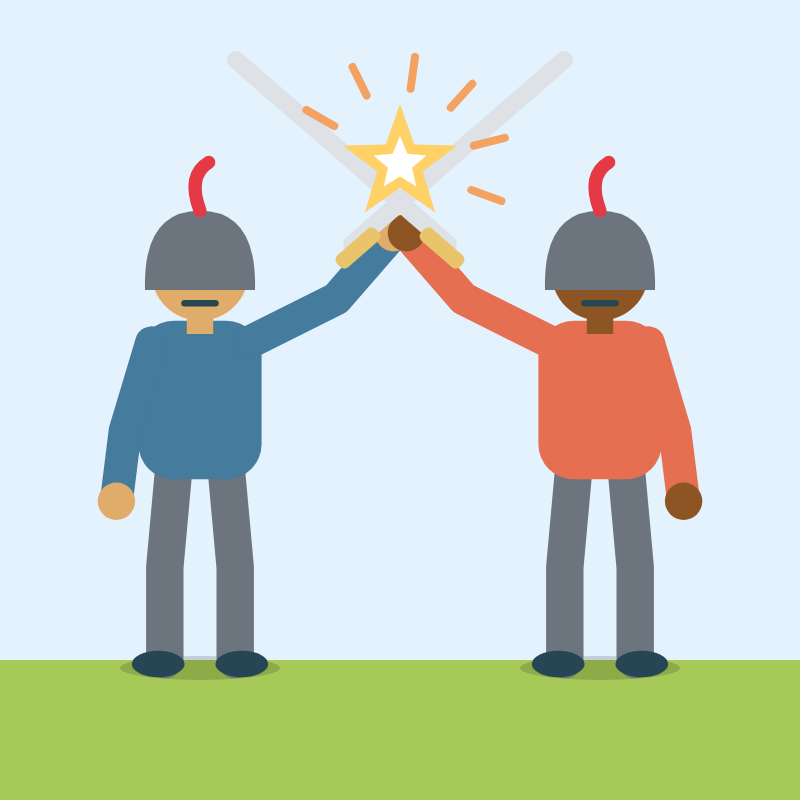
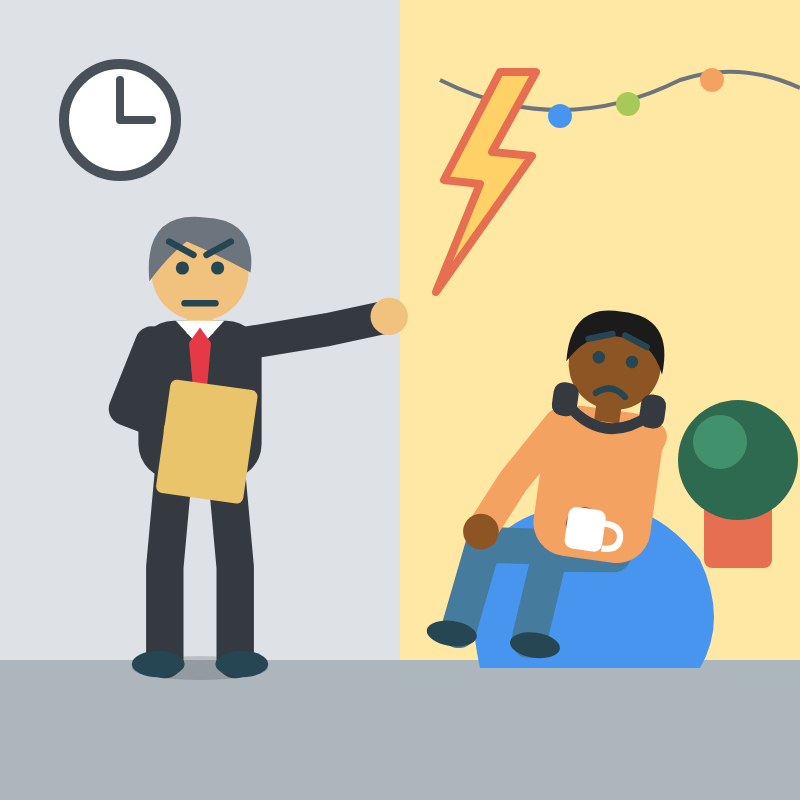
Redraw the pictures for "staged", "improvise" and "clashed with"
- staged: workers holding signs in a protest outside a factory, matching
  the meaning "planned or organized" instead of a theatre stage.
- improvise: a speaker whose notes blow away keeps talking with a new idea.
- clashed with: a strict manager in a suit confronts a relaxed worker on
  a bean bag, with a lightning bolt between them; the two knights read
  like a high-five at small sizes.

Claude-Session: https://claude.ai/code/session_012AFdoXqDmyhe4pDydHQ1Qn

diff --git a/tools/vocab_drawings/batch_03.py b/tools/vocab_drawings/batch_03.py
@@ -6,7 +6,7 @@ The figures and small shapes (person, face, limb, ...) come from batch_02.py.
 import math
 import random
 
-from batch_02 import SKIN, heart, limb, person, shadow, sheep, sparkle, star
+from batch_02 import SKIN, heart, limb, paper, person, shadow, sheep, sparkle, star
 from common import INK, arrow, bush, carrow, f, pine, svg
 
 
@@ -395,30 +395,33 @@ def praised():
 
 
 def improvise():
-    rnd = random.Random(3)
-    b = ['<rect y="300" width="400" height="100" fill="#6a994e"/>',
-         '<ellipse cx="120" cy="40" rx="140" ry="40" fill="#8d99ae"/><ellipse cx="320" cy="50" rx="120" ry="34" fill="#adb5bd"/>']
-    for _ in range(40):
-        x, y = rnd.uniform(0, 400), rnd.uniform(70, 290)
-        b.append(f'<line x1="{f(x)}" y1="{f(y)}" x2="{f(x - 5)}" y2="{f(y + 14)}" stroke="#457b9d" stroke-width="2.5" '
-                 'stroke-linecap="round"/>')
-    b += [# two trees and the branch tied between them
-          '<rect x="30" y="120" width="22" height="190" fill="#7f5539"/>', bush(41, 110, 46),
-          '<rect x="268" y="130" width="20" height="180" fill="#7f5539"/>', bush(278, 120, 42),
-          '<line x1="40" y1="190" x2="280" y2="190" stroke="#6f4518" stroke-width="10" stroke-linecap="round"/>',
-          # the tarp thrown over it
-          '<polygon points="60,190 260,190 300,320 20,320" fill="#4895ef"/>',
-          '<polygon points="60,190 260,190 220,320 100,320" fill="#457b9d"/>',
-          '<polygon points="120,320 160,236 200,320" fill="#264653" opacity=".7"/>',
-          '<path d="M20 320 L4 340 M300 320 L318 340" stroke="#adb5bd" stroke-width="3"/>',
-          '<rect x="0" y="336" width="8" height="14" fill="#7f5539"/><rect x="314" y="336" width="8" height="14" '
-          'fill="#7f5539"/>',
-          '<path d="M300 320 Q330 300 346 250" fill="none" stroke="#adb5bd" stroke-width="3"/>',
-          shadow(350, 344, 30),
-          person(352, 342, .82, SKIN[1], "#e76f51", "#264653", "#5c4033", "cap", mood="shut",
-                 larm=((-26, -16), (-14, -40)), rarm=((12, 40), (16, 74)),
-                 brows="M-14 -190 L-3 -187 M3 -187 L14 -190")]
-    return svg(b, "#cfd8dc")
+    b = ['<rect y="300" width="400" height="100" fill="#9c6b3c"/>', '<rect y="300" width="400" height="8" fill="#b08968"/>',
+         person(180, 300, 1.1, SKIN[2], "#2a9d8f", "#264653", "#1b1b1b", "bun", mood="grin", long_hair=True,
+                larm=((-30, 10), (-58, 0)), rarm=((14, 40), (16, 72))),
+         # the podium and its microphone
+         '<path d="M120 236 H240 L228 304 H132 Z" fill="#7f5539"/>',
+         '<rect x="114" y="226" width="132" height="14" rx="3" fill="#9c6b3c"/>',
+         '<circle cx="180" cy="270" r="15" fill="#e9c46a"/>',
+         '<path d="M162 226 L160 184" stroke="#495057" stroke-width="4"/><ellipse cx="160" cy="178" rx="6" ry="9" '
+         'fill="#343a40"/>',
+         # the wind and the notes it carries off
+         '<path d="M236 206 Q280 190 300 160 Q320 130 356 116" fill="none" stroke="#a8dadc" stroke-width="5" '
+         'stroke-linecap="round"/>',
+         '<path d="M230 170 Q270 150 296 100 Q310 76 340 78 Q358 82 350 96" fill="none" stroke="#a8dadc" '
+         'stroke-width="5" stroke-linecap="round"/>',
+         '<path d="M244 226 Q310 214 384 194" fill="none" stroke="#a8dadc" stroke-width="5" stroke-linecap="round"/>',
+         paper(270, 188, -20, 30, 38), paper(316, 132, 25, 34, 44), paper(356, 56, -35, 34, 44),
+         # her new idea, out loud
+         '<path d="M96 92 L132 116 L84 98 Z" fill="#fff"/>',
+         '<ellipse cx="74" cy="62" rx="50" ry="40" fill="#fff"/>',
+         '<circle cx="74" cy="56" r="26" fill="#fff3b0"/><circle cx="74" cy="54" r="17" fill="#ffd166"/>',
+         '<path d="M65 64 H83 L80 76 H68 Z" fill="#ffd166"/><rect x="66" y="76" width="16" height="11" rx="2" '
+         'fill="#6c757d"/>']
+    for k in range(8):
+        x = 25 + k * 50
+        b.append(f'<circle cx="{x}" cy="366" r="20" fill="#14213d"/><rect x="{x - 26}" y="376" width="52" height="30" '
+                 'rx="12" fill="#14213d"/>')
+    return svg(b, "#e3f2fd")
 
 
 def footprint(x, y, k, rot):
@@ -1128,23 +1131,37 @@ def inviting():
 
 
 def clashed_with():
-    helmet = ('<path d="M-25 -170 Q-26 -206 0 -206 Q26 -206 25 -170 Z" fill="#6c757d"/>'
-              '<path d="M0 -206 Q-6 -222 4 -228" fill="none" stroke="#e63946" stroke-width="6" stroke-linecap="round"/>')
-    b = ['<rect y="330" width="400" height="70" fill="#a7c957"/>', shadow(100, 334, 40), shadow(300, 334, 40),
-         person(100, 332, 1.1, "#e0ac69", "#457b9d", "#6c757d", "#000", "none", mood="angry",
-                larm=((-12, 40), (-16, 72)), rarm=((40, -20), (66, -50)), extra=helmet),
-         person(300, 332, 1.1, "#8d5524", "#e76f51", "#6c757d", "#000", "none", mood="angry",
-                larm=((-40, -20), (-66, -50)), rarm=((12, 40), (16, 72)), extra=helmet),
-         # crossed swords
-         '<line x1="176" y1="122" x2="282" y2="30" stroke="#dee2e6" stroke-width="9" stroke-linecap="round"/>',
-         '<line x1="224" y1="122" x2="118" y2="30" stroke="#dee2e6" stroke-width="9" stroke-linecap="round"/>',
-         '<rect x="166" y="120" width="26" height="8" rx="3" fill="#e9c46a" transform="rotate(-41 179 124)"/>',
-         '<rect x="208" y="120" width="26" height="8" rx="3" fill="#e9c46a" transform="rotate(41 221 124)"/>',
-         star(200, 82, 30, "#ffd166", .4), star(200, 82, 14, "#fff", .45)]
-    for a in range(-150, 40, 34):
-        ca, sa = math.cos(math.radians(a)), math.sin(math.radians(a))
-        b.append(f'<line x1="{f(200 + 38 * ca)}" y1="{f(82 + 38 * sa)}" x2="{f(200 + 54 * ca)}" y2="{f(82 + 54 * sa)}" '
-                 'stroke="#f4a261" stroke-width="4" stroke-linecap="round"/>')
+    tie = ('<path d="M-11 -156 L0 -144 L11 -156 Z" fill="#fff"/>'
+           '<path d="M0 -153 L-5 -146 L-2 -112 L0 -106 L2 -112 L5 -146 Z" fill="#e63946"/>'
+           '<rect x="-16" y="-136" width="40" height="52" rx="3" fill="#e9c46a" transform="rotate(8 -60 -112)"/>')
+    phones = ('<path d="M-20 -156 Q0 -138 20 -156" fill="none" stroke="#343a40" stroke-width="5" stroke-linecap="round"/>'
+              '<rect x="-27" y="-166" width="12" height="16" rx="5" fill="#343a40"/>'
+              '<rect x="15" y="-166" width="12" height="16" rx="5" fill="#343a40"/>'
+              '<rect x="-12" y="-108" width="18" height="20" rx="4" fill="#fff"/>'
+              '<path d="M6 -102 q8 0 8 6 q0 6 -8 6" fill="none" stroke="#fff" stroke-width="3"/>')
+    b = [# the strict half of the office and the relaxed half
+         '<rect x="0" y="0" width="200" height="330" fill="#dee2e6"/>',
+         '<rect x="200" y="0" width="200" height="330" fill="#ffe8a3"/>',
+         '<rect y="330" width="400" height="70" fill="#adb5bd"/>',
+         '<circle cx="60" cy="60" r="28" fill="#fff" stroke="#495057" stroke-width="5"/>',
+         '<path d="M60 60 V40 M60 60 H76" stroke="#495057" stroke-width="4" stroke-linecap="round"/>',
+         '<rect x="352" y="250" width="34" height="34" rx="4" fill="#e76f51"/>', bush(369, 230, 30),
+         '<path d="M220 40 Q280 70 340 40 Q370 30 400 44" fill="none" stroke="#6c757d" stroke-width="2"/>',
+         '<circle cx="246" cy="52" r="6" fill="#e76f51"/><circle cx="280" cy="58" r="6" fill="#4895ef"/>'
+         '<circle cx="314" cy="52" r="6" fill="#a7c957"/><circle cx="356" cy="40" r="6" fill="#f4a261"/>',
+         shadow(100, 334, 34),
+         person(100, 332, 1.1, SKIN[0], "#343a40", "#343a40", "#6c757d", "side", mood="angry",
+                brows="M-14 -192 L-3 -186 M3 -186 L14 -192",
+                larm=((-12, 30), (14, 40)), rarm=((36, -6), (64, -12)), extra=tie),
+         # the bean bag and the relaxed worker on it
+         '<path d="M240 334 Q226 270 270 256 Q320 240 350 280 Q364 310 350 334 Z" fill="#4895ef"/>',
+         person(296, 368, 1.05, SKIN[3], "#f4a261", "#457b9d", "#1b1b1b", "short", mood="frown", rot=8,
+                brows="M-14 -188 L-3 -192 M3 -192 L14 -188",
+                lleg=((-38, 4), (-44, 46)), rleg=((-30, 4), (-34, 46)),
+                larm=((-18, 30), (-30, 56)), rarm=((-10, 30), (-26, 46)), extra=phones),
+         # the clash between them
+         '<polygon points="250,36 222,90 240,92 218,146 266,78 246,76 268,36" fill="#ffd166" stroke="#e76f51" '
+         'stroke-width="4" stroke-linejoin="round"/>']
     return svg(b, "#e3f2fd")
 
 

diff --git a/tools/vocab_drawings/batch_04.py b/tools/vocab_drawings/batch_04.py
@@ -6,7 +6,7 @@ The figures and small shapes come from batch_02.py and batch_03.py.
 import math
 import random
 
-from batch_02 import SKIN, limb, person, puzzle_piece, shadow, sheep, sparkle, star
+from batch_02 import SKIN, heart, limb, person, puzzle_piece, shadow, sheep, sparkle, star
 from batch_03 import bicycle, cyclist, dog, side_runner, thumbs_up
 from common import INK, arrow, arc_arrow, bush, carrow, f, pine, svg
 
@@ -347,25 +347,47 @@ def perceive():
     return svg(b, "#1d2d44")
 
 
+def hard_hat(color="#ffd166"):
+    return (f'<path d="M-26 -186 Q-26 -210 0 -210 Q26 -210 26 -186 Z" fill="{color}"/>'
+            f'<rect x="-30" y="-190" width="60" height="7" rx="3" fill="{color}"/>')
+
+
 def staged():
-    b = ['<rect width="400" height="400" fill="#3d405b"/>',
-         '<polygon points="120,0 160,0 230,300 60,300" fill="#fff3b0" opacity=".25"/>',
-         '<polygon points="240,0 280,0 340,300 180,300" fill="#fff3b0" opacity=".25"/>',
-         '<rect y="290" width="400" height="30" fill="#9c6b3c"/>', '<rect y="290" width="400" height="8" fill="#b08968"/>',
-         '<rect y="320" width="400" height="80" fill="#22223b"/>',
-         person(150, 296, 1.0, SKIN[1], "#457b9d", "#264653", "#5c4033", "short", mood="grin",
-                larm=((-30, -20), (-60, -30)), rarm=((12, 40), (14, 72)),
-                extra='<path d="M-22 -198 L-18 -222 L-6 -206 L0 -226 L6 -206 L18 -222 L22 -198 Z" fill="#e9c46a"/>'),
-         '<path d="M150 130 L130 270 L170 270 Z" fill="#9d0208" opacity=".0"/>',
-         person(270, 296, 1.0, SKIN[3], "#a7c957", "#264653", "#1b1b1b", "bun", mood="wide",
-                larm=((-12, 40), (-14, 72)), rarm=((24, -10), (40, -40)), skirt=True),
-         '<path d="M0 0 H400 V40 Q300 64 200 40 Q100 64 0 40 Z" fill="#c1121f"/>',
-         '<path d="M0 0 H60 Q70 150 40 300 H0 Z M400 0 H340 Q330 150 360 300 H400 Z" fill="#9d0208"/>']
-    for k in range(9):
-        x = 22 + k * 45
-        b.append(f'<circle cx="{x}" cy="364" r="22" fill="#14213d"/><rect x="{x - 30}" y="374" width="60" height="30" '
-                 'rx="12" fill="#14213d"/>')
-    return svg(b, "#3d405b")
+    signs = (
+        # hard hat
+        '<path d="M-14 6 Q-14 -12 0 -12 Q14 -12 14 6 Z" fill="#ffd166"/><rect x="-18" y="4" width="36" height="6" '
+        'rx="3" fill="#ffd166"/>',
+        # first-aid cross
+        '<path d="M-6 -16 H6 V-6 H16 V6 H6 V16 H-6 V6 H-16 V-6 H-6 Z" fill="#52b788"/>',
+        # shield with a tick
+        '<path d="M0 -18 L16 -12 Q16 8 0 18 Q-16 8 -16 -12 Z" fill="#4895ef"/>'
+        '<path d="M-7 0 L-2 6 L8 -6" fill="none" stroke="#fff" stroke-width="4" stroke-linecap="round" '
+        'stroke-linejoin="round"/>',
+        # care for the workers
+        heart(0, 2, 16))
+    b = [# the factory
+         '<rect x="30" y="140" width="340" height="170" fill="#b8c0c8"/>',
+         '<polygon points="30,140 30,100 98,140 98,100 166,140 166,100 234,140 234,100 302,140 302,100 370,140" '
+         'fill="#8d99ae"/>',
+         '<rect x="300" y="40" width="30" height="80" fill="#6c757d"/>',
+         '<circle cx="320" cy="30" r="14" fill="#ced4da"/><circle cx="338" cy="16" r="12" fill="#dee2e6"/>'
+         '<circle cx="358" cy="8" r="10" fill="#e9ecef"/>']
+    for x in range(52, 360, 56):
+        b.append(f'<rect x="{x}" y="164" width="36" height="28" rx="3" fill="#457b9d"/>')
+    b += ['<rect x="170" y="230" width="60" height="80" fill="#6c757d"/>',
+          '<rect y="300" width="400" height="100" fill="#ced4da"/>']
+    workers = ((52, SKIN[1], "#e76f51", "#ffd166", "wide"), (140, SKIN[3], "#2a9d8f", "#f4a261", "angry"),
+               (228, SKIN[0], "#457b9d", "#ffd166", "wide"), (316, SKIN[2], "#e9c46a", "#f4a261", "angry"))
+    for (x, sk, shirt, hat, mood), sign in zip(workers, signs):
+        held = ('<line x1="40" y1="-140" x2="40" y2="-252" stroke="#9c6b3c" stroke-width="6" stroke-linecap="round"/>'
+                '<rect x="0" y="-306" width="80" height="58" rx="4" fill="#fff" stroke="#adb5bd" stroke-width="3"/>'
+                f'<g transform="translate(40 -277)">{sign}</g>'
+                f'<circle cx="40" cy="-196" r="8.5" fill="{sk}"/>' + hard_hat(hat))
+        b += [shadow(x, 354, 30),
+              person(x, 352, .88, sk, shirt, "#264653", "#1b1b1b", "none", mood=mood,
+                     larm=((-14, 40), (-16, 72)), rarm=((14, -18), (18, -50)), extra=held)]
+    return svg(b, "#cfe8f3")
+
 
 
 def arduous():
